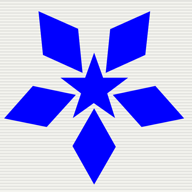
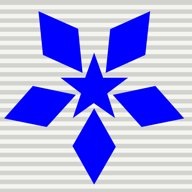
Fix traduction coupée, mode aveugle, bande blanche iOS, scanlines
- Écriture : write-info passait en overflow horizontal caché par
  .panel-right (overflow:hidden), coupant les meanings longs comme
  celui de 菠 (6ème caractère par ordre alphabétique). Passe en
  flex-wrap pour s'afficher entièrement.
- Ajout d'un mode aveugle (🙈) pour l'écriture : masque le fantôme,
  ne garde que la grille 田字格, pour écrire de mémoire. Le score
  continue de fonctionner puisqu'il compare toujours au masque du
  glyphe en interne, indépendamment de l'affichage.
- iOS PWA installée : html/body suivaient le fond blanc par défaut du
  WebView plutôt que le thème de l'app, visible en bande sous le home
  indicator. applyTheme() force maintenant html/body/meta theme-color
  à suivre --bg, et .app réserve l'espace via env(safe-area-inset-bottom).
- Favicon : scanlines agrandies (8px → 24px de période, opacité 0.14)
  pour rester visibles une fois l'icône réduite en petite taille.

diff --git a/app.js b/app.js
@@ -17,6 +17,7 @@ const state = {
   write: {
     scope: 'all',
     shuffled: false,
+    blind: false,
     pool: [],
     index: 0,
   },
@@ -58,6 +59,8 @@ const UI = {
   clear: { fr: 'effacer', en: 'clear' },
   shuffleOn: { fr: '🔀 aléatoire', en: '🔀 random' },
   shuffleOff: { fr: '↧ alphabétique', en: '↧ alphabetical' },
+  blindOn: { fr: '🙈 mode aveugle', en: '🙈 blind mode' },
+  blindOff: { fr: '👁 avec modèle', en: '👁 with template' },
   traceToCheck: { fr: 'TRACE POUR VÉRIFIER', en: 'TRACE TO CHECK' },
   wellWritten: { fr: 'BIEN ÉCRIT', en: 'WELL WRITTEN' },
   needsWork: { fr: 'À RETRAVAILLER', en: 'NEEDS WORK' },
@@ -82,6 +85,14 @@ function applyTheme() {
   document.getElementById('themeThumb').className = `theme-toggle-thumb ${state.theme}`;
   document.getElementById('themeLabel').textContent = state.theme === 'light' ? 'DAY' : 'NIGHT';
   localStorage.setItem('woshicnd-theme', state.theme);
+
+  // En PWA installée sur iOS, toute zone que #app ne couvre pas exactement
+  // (arrondi, barre du home indicator) laisse voir le fond par défaut du
+  // WebView — blanc. On force html/body à suivre la même couleur de fond.
+  const bg = getComputedStyle(app).getPropertyValue('--bg').trim();
+  document.documentElement.style.background = bg;
+  document.body.style.background = bg;
+  document.getElementById('themeColorMeta').setAttribute('content', bg);
 }
 
 document.getElementById('themeToggle').addEventListener('click', () => {
@@ -550,6 +561,7 @@ function renderEcriturePage() {
     <div class="write-wrap">
       <div class="flash-scope write-scope-row">
         <button class="flash-scope-btn shuffle-chip ${state.write.shuffled ? 'active' : ''}" id="btnShuffle">${state.write.shuffled ? t(UI.shuffleOn) : t(UI.shuffleOff)}</button>
+        <button class="flash-scope-btn shuffle-chip ${state.write.blind ? 'active' : ''}" id="btnBlind">${state.write.blind ? t(UI.blindOn) : t(UI.blindOff)}</button>
         ${scopeHtml}
       </div>
       ${item ? `
@@ -584,6 +596,10 @@ function renderEcriturePage() {
   document.getElementById('btnShuffle').addEventListener('click', () => {
     state.write.shuffled = !state.write.shuffled;
     rebuildWritePool();
+    renderContent();
+  });
+  document.getElementById('btnBlind').addEventListener('click', () => {
+    state.write.blind = !state.write.blind;
     renderContent();
   });
 
@@ -655,16 +671,19 @@ function setupWriteCanvas(char) {
   bgCtx.stroke();
   bgCtx.setLineDash([]);
 
+  // Mode aveugle : pas de fantôme, seulement la grille — on écrit de mémoire.
   // Le fantôme utilise la couleur d'accent (pas --text) : en thème sombre, un texte
   // gris clair à faible opacité sur fond noir devient quasi invisible, alors que
   // l'accent (jaune en dark, bleu en light) reste lisible dans les deux thèmes.
-  bgCtx.globalAlpha = 0.22;
-  bgCtx.fillStyle = accent;
-  bgCtx.font = `${size * 0.72}px ${fontStack}`;
-  bgCtx.textAlign = 'center';
-  bgCtx.textBaseline = 'middle';
-  bgCtx.fillText(char, size / 2, size / 2 + size * 0.03);
-  bgCtx.globalAlpha = 1;
+  if (!state.write.blind) {
+    bgCtx.globalAlpha = 0.22;
+    bgCtx.fillStyle = accent;
+    bgCtx.font = `${size * 0.72}px ${fontStack}`;
+    bgCtx.textAlign = 'center';
+    bgCtx.textBaseline = 'middle';
+    bgCtx.fillText(char, size / 2, size / 2 + size * 0.03);
+    bgCtx.globalAlpha = 1;
+  }
 
   // --- masques de référence (hors-écran) pour noter le tracé ---
   // 1) coreInk = le glyphe exact (sert de dénominateur pour la COUVERTURE :

diff --git a/style.css b/style.css
@@ -86,6 +86,10 @@ body {
   color: var(--text);
   position: relative;
   transition: background 0.6s ease, color 0.6s ease;
+  /* couvre la zone du home indicator en PWA installée sur iOS plutôt que de
+     laisser le fond du WebView (blanc) transparaître en dessous */
+  padding-bottom: env(safe-area-inset-bottom);
+  box-sizing: border-box;
 }
 
 .bg-grid {
@@ -520,12 +524,13 @@ body {
 /* --- Écriture (tracé) --- */
 .write-wrap { display: flex; flex-direction: column; align-items: center; gap: 16px; }
 .write-info {
-  display: flex; align-items: baseline; gap: 14px;
+  display: flex; flex-wrap: wrap; align-items: baseline; justify-content: center; gap: 8px 14px;
   font-family: var(--font-mono); font-size: 12px; letter-spacing: 1px; color: var(--muted);
   text-transform: uppercase;
+  max-width: 100%;
 }
 .write-pinyin { font-family: var(--font-pinyin); color: var(--accent); font-size: 14px; }
-.write-meaning { color: var(--text); opacity: 0.8; }
+.write-meaning { color: var(--text); opacity: 0.8; max-width: 100%; text-align: center; }
 .write-emoji { font-size: 16px; }
 .canvas-stack {
   position: relative;

diff --git a/index.html b/index.html
@@ -8,8 +8,7 @@
 
   <!-- PWA / Add to Home Screen (Safari iOS) -->
   <link rel="manifest" href="manifest.json" />
-  <meta name="theme-color" content="#f5f5f0" media="(prefers-color-scheme: light)" />
-  <meta name="theme-color" content="#0a0a0a" media="(prefers-color-scheme: dark)" />
+  <meta name="theme-color" content="#f5f5f0" id="themeColorMeta" />
   <meta name="apple-mobile-web-app-capable" content="yes" />
   <meta name="apple-mobile-web-app-status-bar-style" content="black-translucent" />
   <meta name="apple-mobile-web-app-title" content="WOSHICND" />
